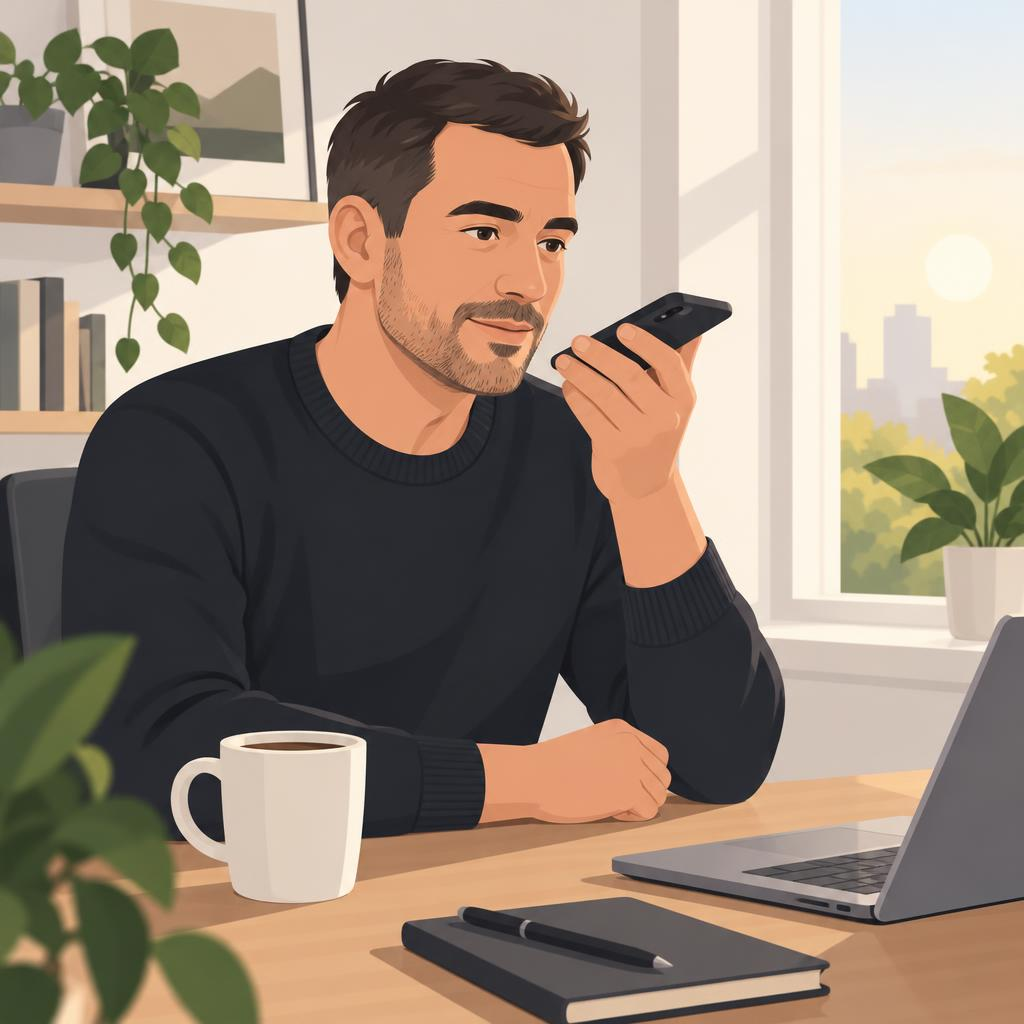
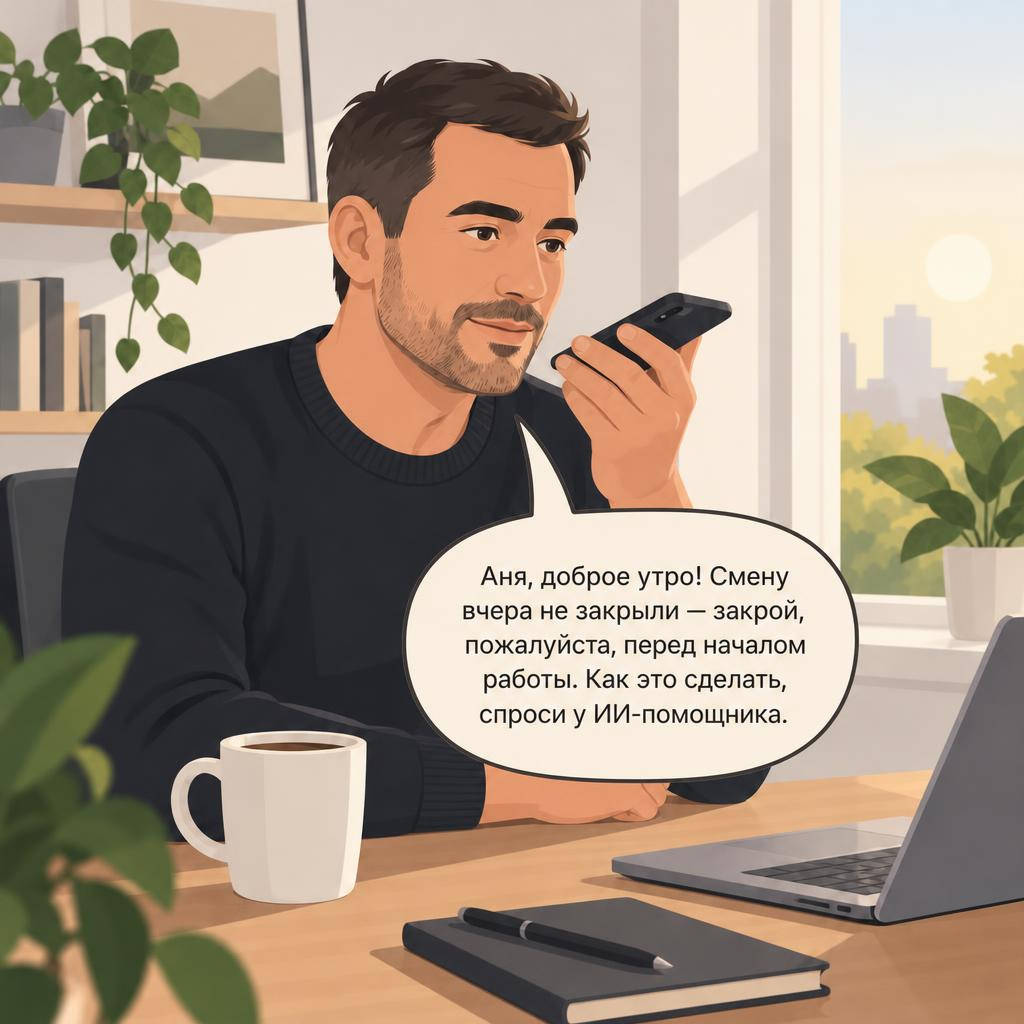
Changes

diff --git a/src/components/day-comic.tsx b/src/components/day-comic.tsx
@@ -11,9 +11,7 @@ type Panel = { img: string; alt: string; span: string; ratio: string; caption?: 
 
 const panels: Panel[] = [
   { img: f1, alt: "Директор открывает утренний отчёт на телефоне", span: "col-span-1 row-span-3 md:col-span-2 md:row-span-4", ratio: "aspect-square", caption: "08:30 · Отчёт директора на почте", bubbles: [] },
-  { img: f2, alt: "Директор записывает голосовое сообщение", span: "col-span-1 row-span-3 md:col-span-4 md:row-span-4", ratio: "aspect-square", bubbles: [
-    { who: "Артём", text: "Аня, доброе утро! Смену вчера не закрыли — закрой, пожалуйста, перед началом работы. Как это сделать, спроси у ИИ-помощника.", pos: "right-[2%] top-[2%] w-[70%] md:w-[46%]", tail: "bl" },
-  ] },
+  { img: f2, alt: "Директор записывает голосовое сообщение Ане", span: "col-span-1 row-span-3 md:col-span-4 md:row-span-4", ratio: "aspect-square", bubbles: [] },
   { img: f3, alt: "Бариста получает голосовое сообщение", span: "col-span-2 row-span-2 md:col-span-6 md:row-span-4", ratio: "aspect-[3/2]", caption: "08:42 · Кофейня, до открытия", bubbles: [] },
   { img: f4, alt: "Бариста спрашивает ИИ-помощника, на экране эквалайзер", span: "col-span-1 row-span-3 md:col-span-2 md:row-span-5", ratio: "aspect-square", bubbles: [] },
   { img: f5, alt: "Бариста закрывает смену на кассе", span: "col-span-1 row-span-3 md:col-span-4 md:row-span-5", ratio: "aspect-square", bubbles: [
